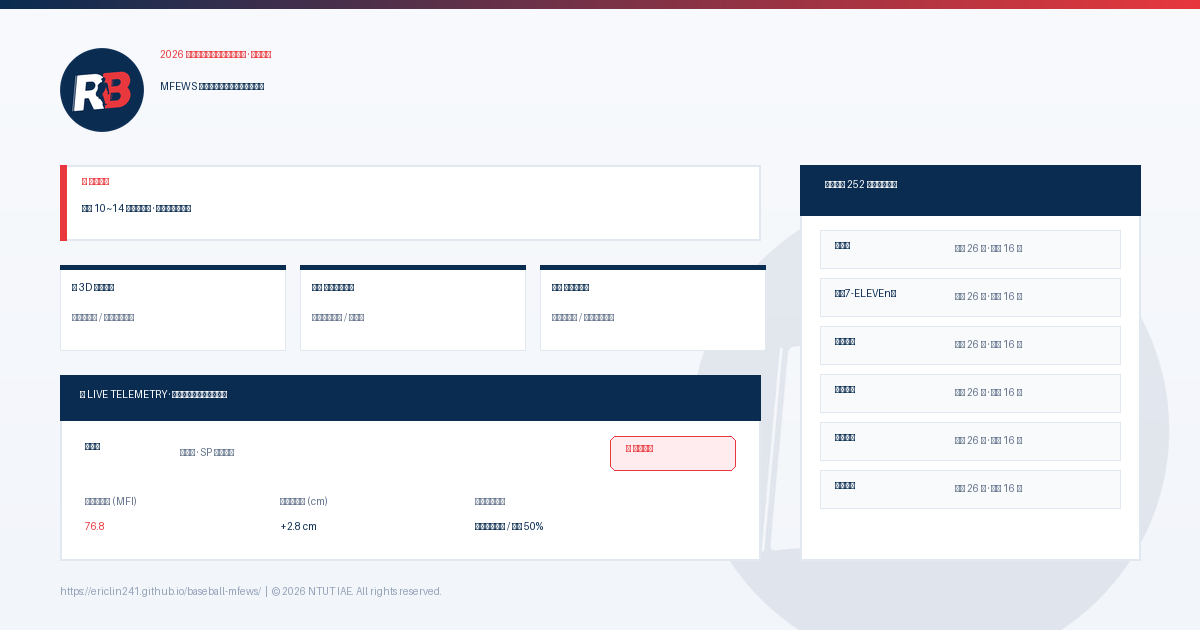
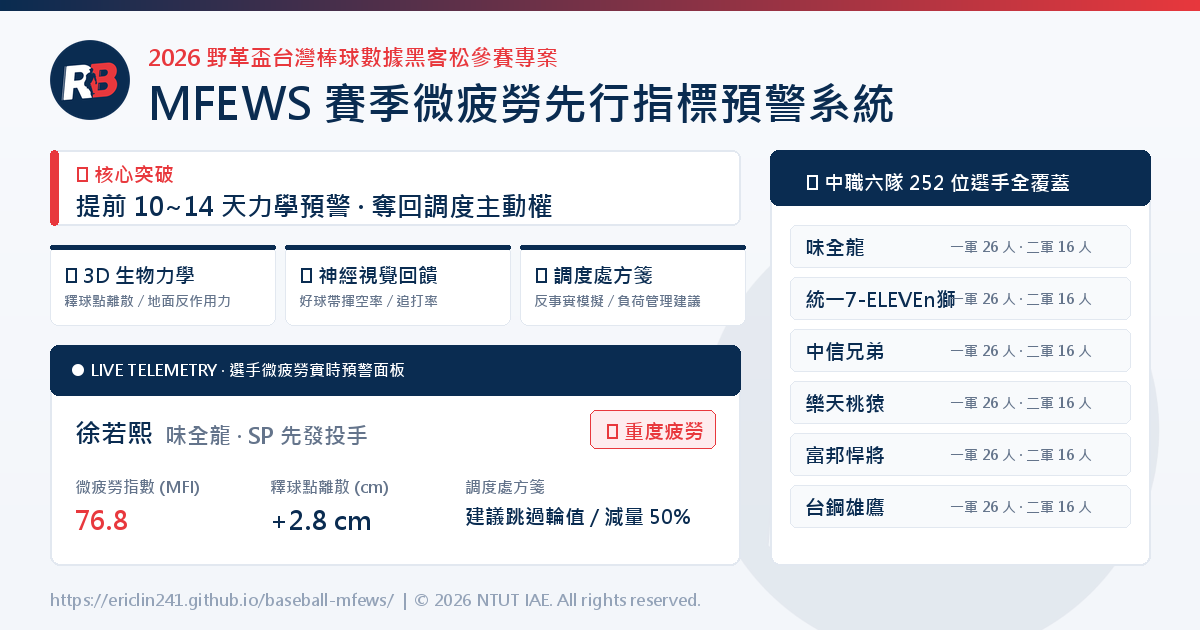
fix(chart & mobile): 修復 MFI 與警戒線圖表軸向顯示、加入禁止縮放與行動平板體驗優化、重繪中文字型清晰之社群預覽縮圖

diff --git a/index.html b/index.html
@@ -3,7 +3,7 @@
 <head>
   <meta charset="UTF-8" />
   <meta http-equiv="X-UA-Compatible" content="IE=edge" />
-  <meta name="viewport" content="width=device-width, initial-scale=1, shrink-to-fit=no" />
+  <meta name="viewport" content="width=device-width, initial-scale=1.0, maximum-scale=1.0, user-scalable=no, viewport-fit=cover" />
   <title>MFEWS | 賽季微疲勞先行指標預警系統 (2026 野革盃)</title>
   
   <!-- 網頁 Favicon 與 Apple Touch Icon -->
@@ -87,6 +87,14 @@
       padding: 0;
     }
 
+    html, body {
+      touch-action: pan-x pan-y;
+      -webkit-text-size-adjust: 100%;
+      -webkit-tap-highlight-color: transparent;
+      width: 100%;
+      overflow-x: hidden;
+    }
+
     body {
       background-color: var(--theme-canvas);
       background-image: 
@@ -101,6 +109,12 @@
       padding-bottom: 70px;
       min-height: 100vh;
       position: relative;
+    }
+
+    button, .player-card-btn, .roster-btn, .tab-btn {
+      touch-action: manipulation;
+      -webkit-touch-callout: none;
+      user-select: none;
     }
 
     /* 巧妙融入背景的大型 LOGO 水印 */
@@ -785,6 +799,7 @@
     @media (max-width: 1024px) and (min-width: 769px) {
       .player-grid {
         grid-template-columns: repeat(4, 1fr);
+        gap: 8px;
       }
       .kpi-grid {
         grid-template-columns: repeat(2, 1fr);
@@ -792,27 +807,59 @@
       .prescription-grid {
         grid-template-columns: 1fr;
       }
+      .tab-btn {
+        font-size: 13.5px;
+        padding: 12px 6px;
+      }
     }
 
     @media (max-width: 768px) {
+      .container {
+        padding: 0 12px;
+      }
       .player-grid {
         grid-template-columns: repeat(2, 1fr);
         gap: 8px;
       }
+      .player-card-btn {
+        min-height: 94px;
+        padding: 10px 4px;
+      }
+      .player-card-btn .p-name {
+        font-size: 14px;
+      }
       .kpi-grid {
         grid-template-columns: repeat(2, 1fr);
         gap: 8px;
+      }
+      .kpi-card {
+        padding: 14px 12px;
+      }
+      .kpi-value {
+        font-size: 22px;
       }
       .prescription-grid {
         grid-template-columns: 1fr;
         gap: 12px;
       }
       .tab-bar {
-        gap: 4px;
+        display: grid;
+        grid-template-columns: repeat(2, 1fr);
+        gap: 6px;
+        border-bottom: none;
+        margin: 16px 0 20px 0;
       }
       .tab-btn {
-        font-size: 12px;
-        padding: 10px 4px;
+        width: 100%;
+        font-size: 13px;
+        padding: 11px 6px;
+        border-radius: var(--theme-radius-sm);
+        white-space: normal;
+        line-height: 1.35;
+      }
+      .tab-btn.active {
+        border-bottom: none;
+        border-left: 4px solid var(--theme-red);
       }
       .war-room-header {
         padding: 16px;
@@ -1273,7 +1320,7 @@
       const mfi = pData.mfi;
       const perf = pData.perf;
 
-      // 建立 Plotly 雙子圖
+      // 建立 Plotly 雙子圖 (修正座標軸對應，確保 MFI 與警戒線完美顯示)
       const traceMfi = {
         x: games,
         y: mfi,
@@ -1282,7 +1329,8 @@
         mode: 'lines+markers',
         line: { color: '#0A2C51', width: 3.2, shape: 'spline' },
         marker: { size: 5, color: '#0A2C51' },
-        yaxis: 'y1'
+        xaxis: 'x',
+        yaxis: 'y'
       };
 
       const traceThreshRed = {
@@ -1291,8 +1339,9 @@
         name: '高風險警戒線',
         type: 'scatter',
         mode: 'lines',
-        line: { color: '#E8383D', width: 2, dash: 'dash' },
-        yaxis: 'y1'
+        line: { color: '#E8383D', width: 2.2, dash: 'dash' },
+        xaxis: 'x',
+        yaxis: 'y'
       };
 
       const traceThreshYellow = {
@@ -1301,8 +1350,9 @@
         name: '觀察期注意線',
         type: 'scatter',
         mode: 'lines',
-        line: { color: '#D97706', width: 2, dash: 'dot' },
-        yaxis: 'y1'
+        line: { color: '#D97706', width: 2.2, dash: 'dot' },
+        xaxis: 'x',
+        yaxis: 'y'
       };
 
       const tracePerf = {
@@ -1313,6 +1363,7 @@
         mode: 'lines+markers',
         line: { color: '#E8383D', width: 2.2 },
         marker: { size: 5, color: '#E8383D' },
+        xaxis: 'x2',
         yaxis: 'y2'
       };
 
@@ -1322,14 +1373,14 @@
         height: 530,
         showlegend: true,
         legend: { orientation: 'h', y: 1.15, x: 0.05, font: { color: '#475569' } },
-        yaxis: {
-          title: { text: '微疲勞指數 (MFI)', font: { color: '#0A2C51', size: 13, weight: 700 } },
-          range: [10, 100],
+        xaxis: {
+          showgrid: true,
           gridcolor: '#E2E8F0',
           tickfont: { color: '#64748B', family: 'JetBrains Mono' }
         },
-        yaxis2: {
-          title: { text: isPitcher ? '賽季 ERA' : '賽季打擊率', font: { color: '#E8383D', size: 13, weight: 700 } },
+        yaxis: {
+          title: { text: '微疲勞指數 (MFI)', font: { color: '#0A2C51', size: 13, weight: 700 } },
+          range: [10, 100],
           gridcolor: '#E2E8F0',
           tickfont: { color: '#64748B', family: 'JetBrains Mono' }
         },
@@ -1338,11 +1389,16 @@
           gridcolor: '#E2E8F0',
           tickfont: { color: '#64748B', family: 'JetBrains Mono' }
         },
+        yaxis2: {
+          title: { text: isPitcher ? '賽季 ERA' : '賽季打擊率', font: { color: '#E8383D', size: 13, weight: 700 } },
+          gridcolor: '#E2E8F0',
+          tickfont: { color: '#64748B', family: 'JetBrains Mono' }
+        },
         plot_bgcolor: '#FFFFFF',
         paper_bgcolor: 'rgba(0,0,0,0)'
       };
 
-      Plotly.react('chart-time-series', [traceMfi, traceThreshRed, traceThreshYellow, tracePerf], layout, { responsive: true, displayModeBar: false });
+      Plotly.react('chart-time-series', [traceMfi, traceThreshRed, traceThreshYellow, tracePerf], layout, { responsive: true, displayModeBar: false, scrollZoom: false });
 
       // 渲染近 10 場明細表格
       document.getElementById('th-metric-1').innerText = isPitcher ? '釋球點離散 (cm)' : '壞球追打 (O-Swing%)';
@@ -1441,7 +1497,7 @@
         paper_bgcolor: 'rgba(0,0,0,0)'
       };
 
-      Plotly.react('chart-radar', radarData, radarLayout, { responsive: true, displayModeBar: false });
+      Plotly.react('chart-radar', radarData, radarLayout, { responsive: true, displayModeBar: false, scrollZoom: false });
 
       // 特徵貢獻長條圖
       const features = ['下肢地面反力衰減', '心率變異度異常', '肩肘角速度損耗', '出手點離散擴大', '轉速衰減'];
@@ -1473,7 +1529,7 @@
         paper_bgcolor: 'rgba(0,0,0,0)'
       };
 
-      Plotly.react('chart-importance', barData, barLayout, { responsive: true, displayModeBar: false });
+      Plotly.react('chart-importance', barData, barLayout, { responsive: true, displayModeBar: false, scrollZoom: false });
     }
 
     // TAB 3 渲染 (反事實模擬)
@@ -1534,7 +1590,7 @@
         paper_bgcolor: 'rgba(0,0,0,0)'
       };
 
-      Plotly.react('chart-simulation', [traceOrig, traceSim], layout, { responsive: true, displayModeBar: false });
+      Plotly.react('chart-simulation', [traceOrig, traceSim], layout, { responsive: true, displayModeBar: false, scrollZoom: false });
 
       const finalReduction = Math.max(0, origMfi[origMfi.length - 1] - simMfi[simMfi.length - 1]);
       document.getElementById('sim-kpi-mfi').innerText = `-${finalReduction.toFixed(1)} pts`;
